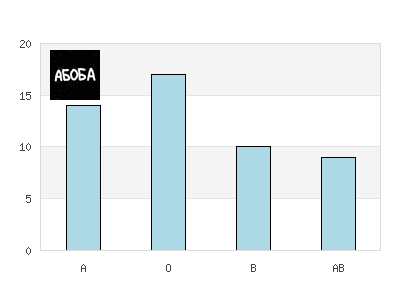
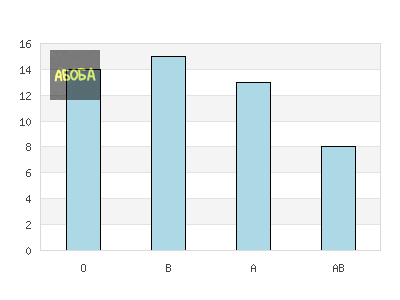
Задание 6: Заплатка

diff --git a/task_6/apache/content/faker/watermark.php b/task_6/apache/content/faker/watermark.php
@@ -8,12 +8,34 @@ function add_watermark($image)
     $image1 = imagecreatefromstring(file_get_contents($image1));
     $image2 = imagecreatefromstring(file_get_contents($image2));
 
-    # Не работает полупрозрачность
-    imagecolorallocate($image1, 255, 255, 255);
-    imagesavealpha($image1, true);
-    imagecolorallocatealpha($image2, 255, 255, 255, 127);
+    imagealphablending($image2, false);
     imagesavealpha($image2, true);
+    $alpha = round(127/255*127); // convert to [0-127]
 
-    imagecopymerge($image1, $image2, 50, 50, 0, 0, $width, $height, 100);
+    for ($x = 0; $x < $width; $x++) {
+        for ($y = 0; $y < $height; $y++) {
+
+            // get current color (R, G, B)
+            $rgb = imagecolorat($image2, $x, $y);
+            $r = ($rgb >> 16) & 0xff;
+            $g = ($rgb >> 8) & 0xff;
+            $b = $rgb & 0xf;
+
+            // create new color
+            $col = imagecolorallocatealpha($image2, $r, $g, $b, $alpha);
+
+            // set pixel with new color
+            imagesetpixel($image2, $x, $y, $col);
+        }
+    }
+
+    # Не работает полупрозрачность
+//    imagecolorallocate($image1, 255, 255, 255);
+//    imagesavealpha($image1, true);
+//    $color = imagecolorallocatealpha($image2, 255, 255, 255, 127);
+//    imagecolorset($image2, )
+//    imagesavealpha($image2, true);
+
+    imagecopy($image1, $image2, 50, 50, 0, 0, $width, $height);
     imagepng($image1, $image);
 }
